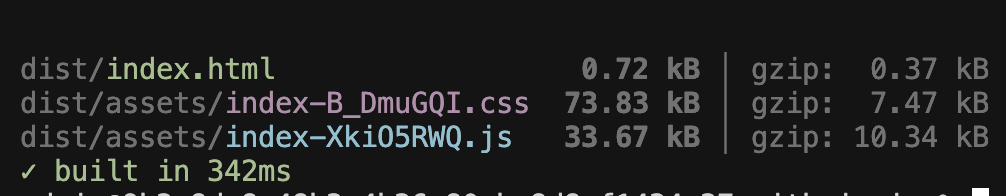
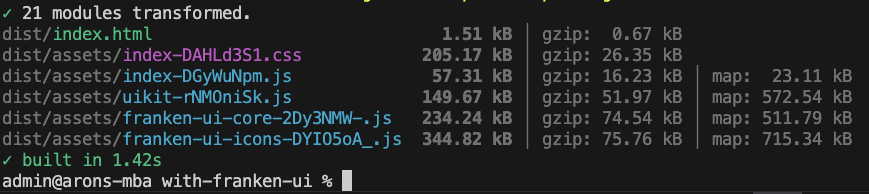
chore: images updated

diff --git a/examples/with-franken-ui/src/theme/variables.css b/examples/with-franken-ui/src/theme/variables.css
@@ -1,6 +1,6 @@
-@import url('https://fonts.googleapis.com/css2?family=Poppins:wght@400;700&display=swap');
+@import url("https://fonts.googleapis.com/css2?family=Poppins:wght@400;700&display=swap");
 @import "tailwindcss";
-@import 'franken-ui/css/franken-ui.css';
+@import "franken-ui/css/franken-ui.css";
 
 @theme {
   --color-background: hsl(var(--background));
@@ -23,10 +23,10 @@
   --color-destructive-foreground: hsl(var(--destructive-foreground));
   --color-ring: hsl(var(--ring));
 
-  --font-geist-sans: Geist Sans, ui-sans-serif, system-ui, sans-serif, 'Apple Color Emoji',
-    'Segoe UI Emoji', Segoe UI Symbol, 'Noto Color Emoji';
-  --font-geist-mono: Geist Mono, ui-monospace, SFMono-Regular, Menlo, Monaco, Consolas,
-    'Liberation Mono', 'Courier New', monospace;
+  --font-geist-sans: Geist Sans, ui-sans-serif, system-ui, sans-serif,
+    "Apple Color Emoji", "Segoe UI Emoji", Segoe UI Symbol, "Noto Color Emoji";
+  --font-geist-mono: Geist Mono, ui-monospace, SFMono-Regular, Menlo, Monaco,
+    Consolas, "Liberation Mono", "Courier New", monospace;
 }
 
 :root {

diff --git a/examples/with-franken-ui/vite.config.ts b/examples/with-franken-ui/vite.config.ts
@@ -8,6 +8,17 @@ import defuss from "defuss-vite";
 export default defineConfig({
   build: {
     sourcemap: true,
+    rollupOptions: {
+      output: {
+        manualChunks: {
+          // split the franken-ui styles into a separate chunk
+          "franken-ui-core": ["franken-ui/js/core.iife"],
+          "franken-ui-icons": ["franken-ui/js/icon.iife"],
+          // split the uikit styles into a separate chunk
+          uikit: ["uikit/dist/js/uikit.js", "uikit/dist/js/uikit-icons.js"],
+        },
+      },
+    },
   },
 
   // the plugin needs to be integrated so that the transpilation works

diff --git a/examples/with-franken-ui/src/main.tsx b/examples/with-franken-ui/src/main.tsx
@@ -1,8 +1,15 @@
-import "./styles.js";
+/* Theme variables */
+import "./theme/variables.css";
 import "uikit";
 import "franken-ui/js/core.iife";
 import "franken-ui/js/icon.iife";
-import { $, Route, Redirect, RouterSlot } from "defuss";
+import {
+  $,
+  Route,
+  Redirect,
+  RouterSlot,
+  type ParentElementInput,
+} from "defuss";
 import { render } from "defuss/client";
 import { LoginPage } from "./pages/LoginPage.js";
 
@@ -27,4 +34,4 @@ function App() {
 }
 
 // initial render
-render(<App />, $("body"));
+render(<App />, $("body") as ParentElementInput);
